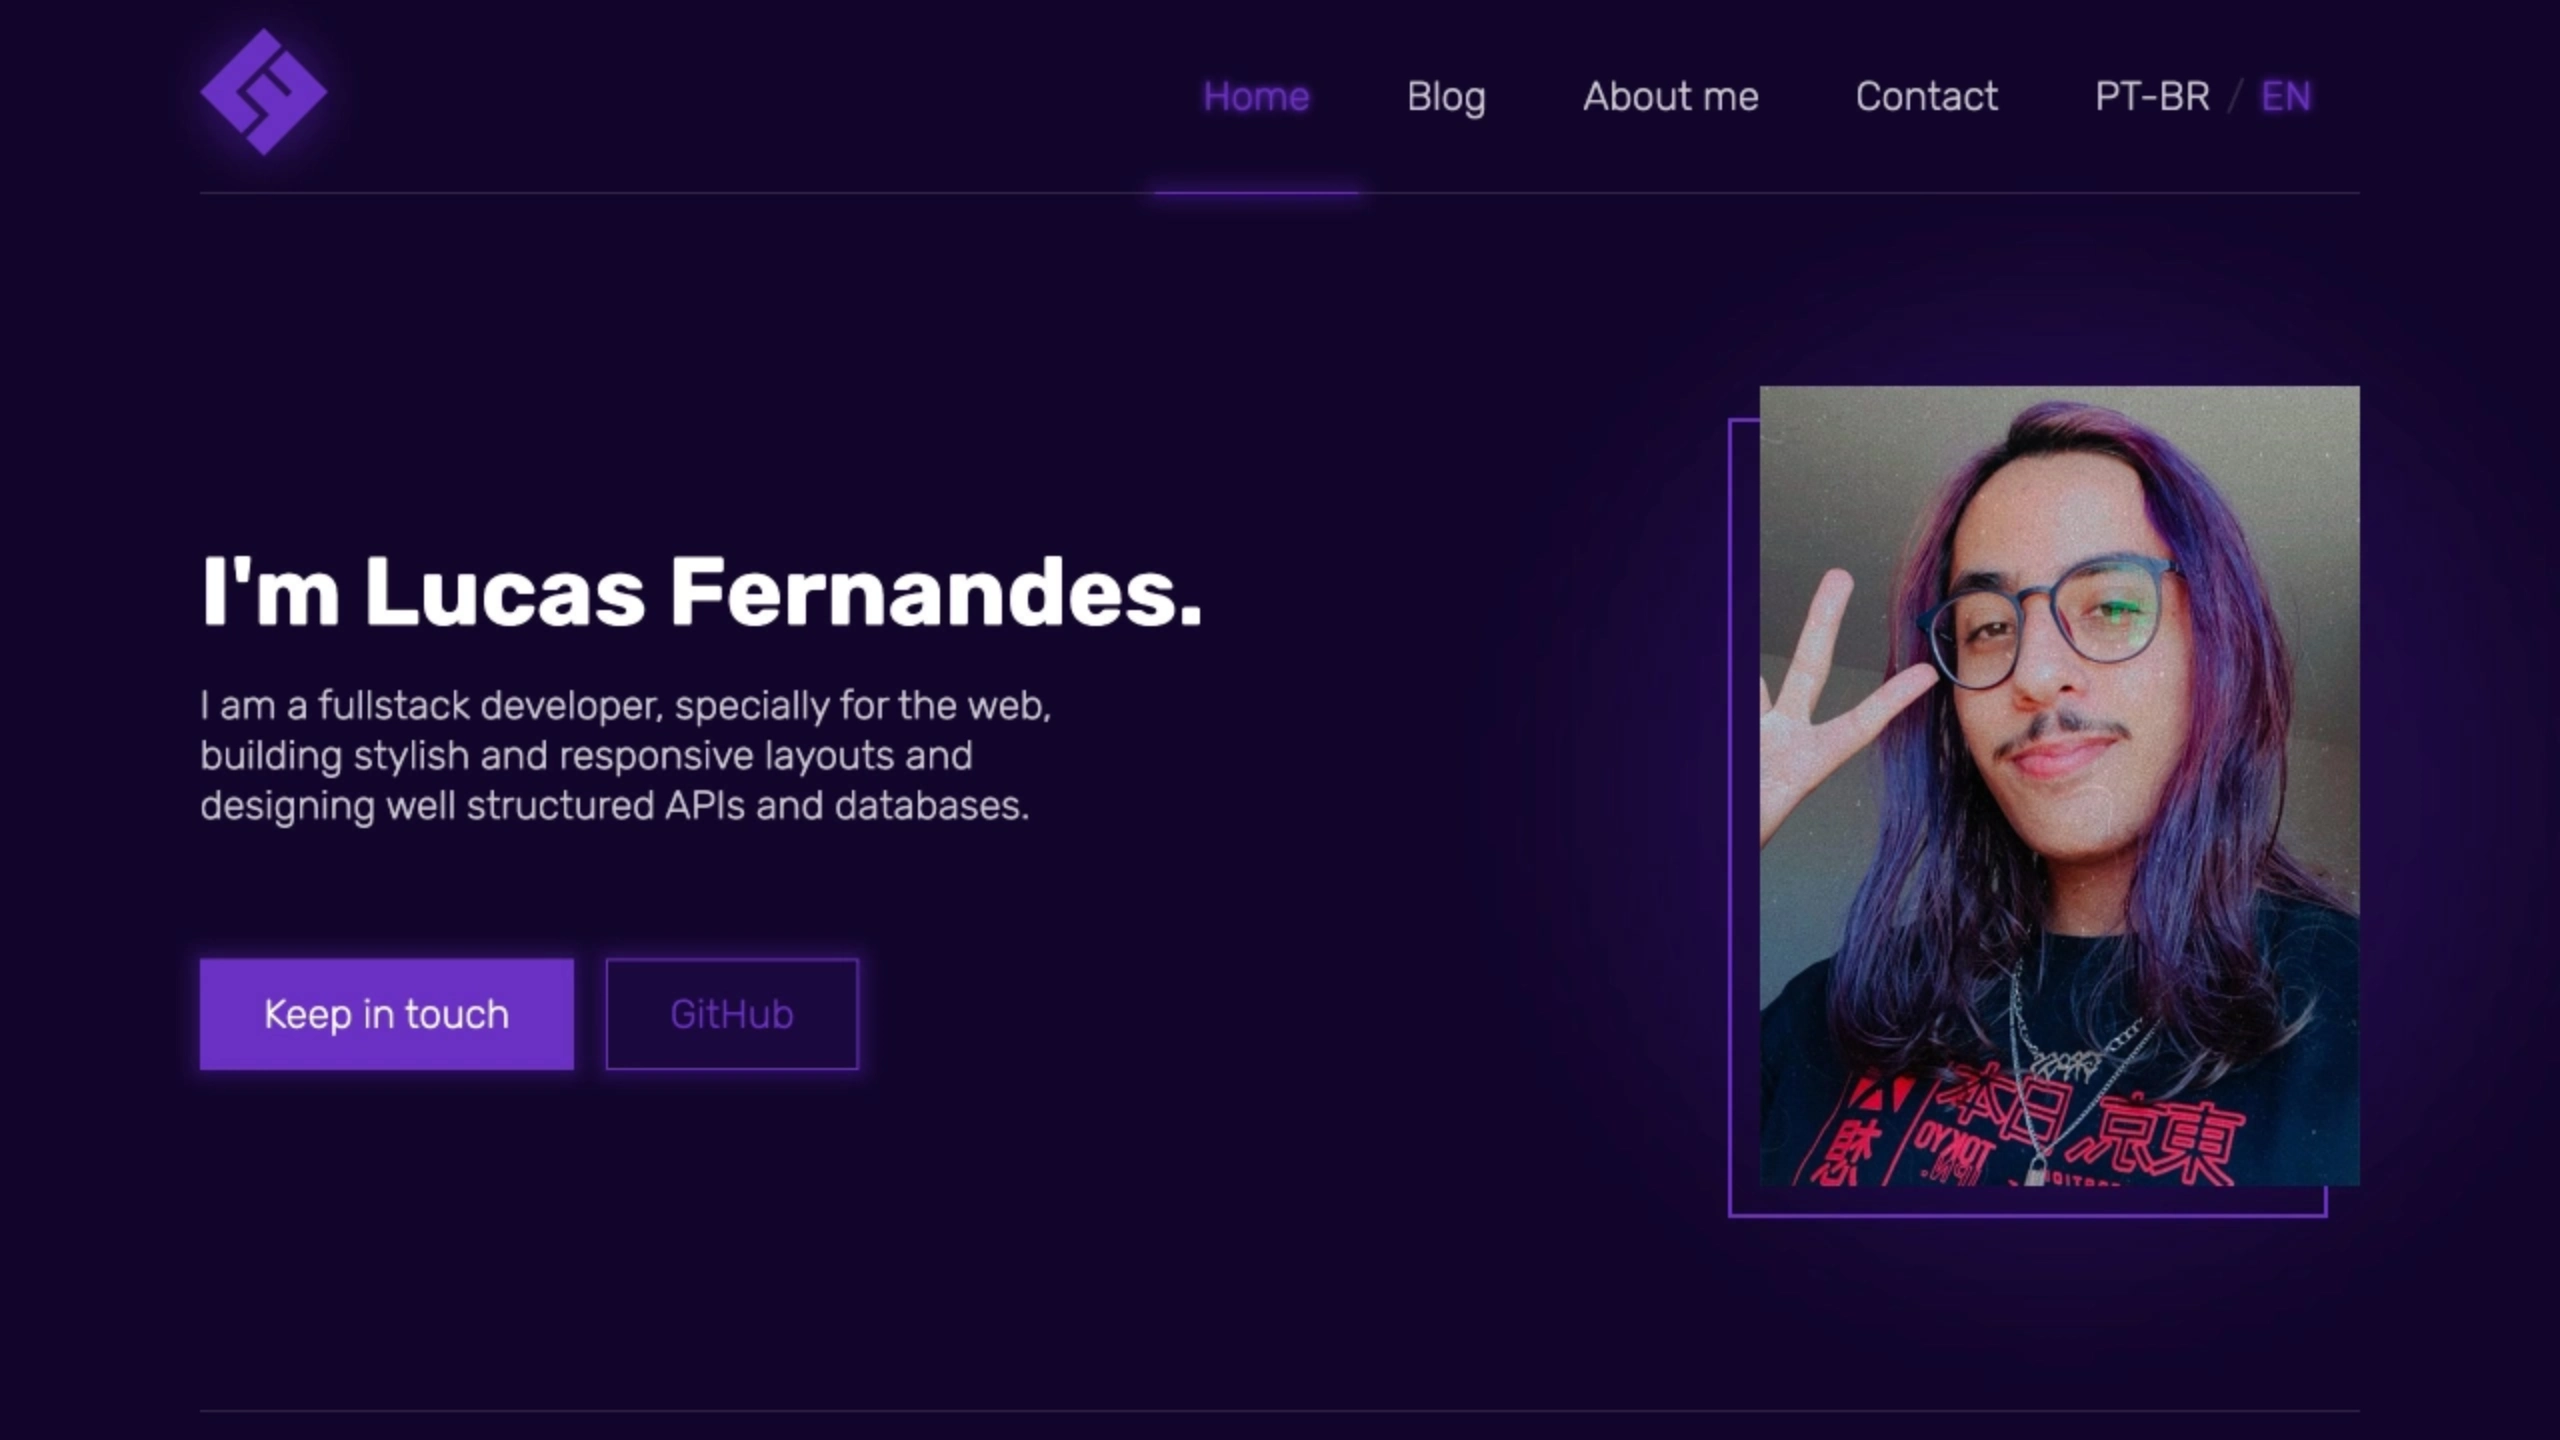
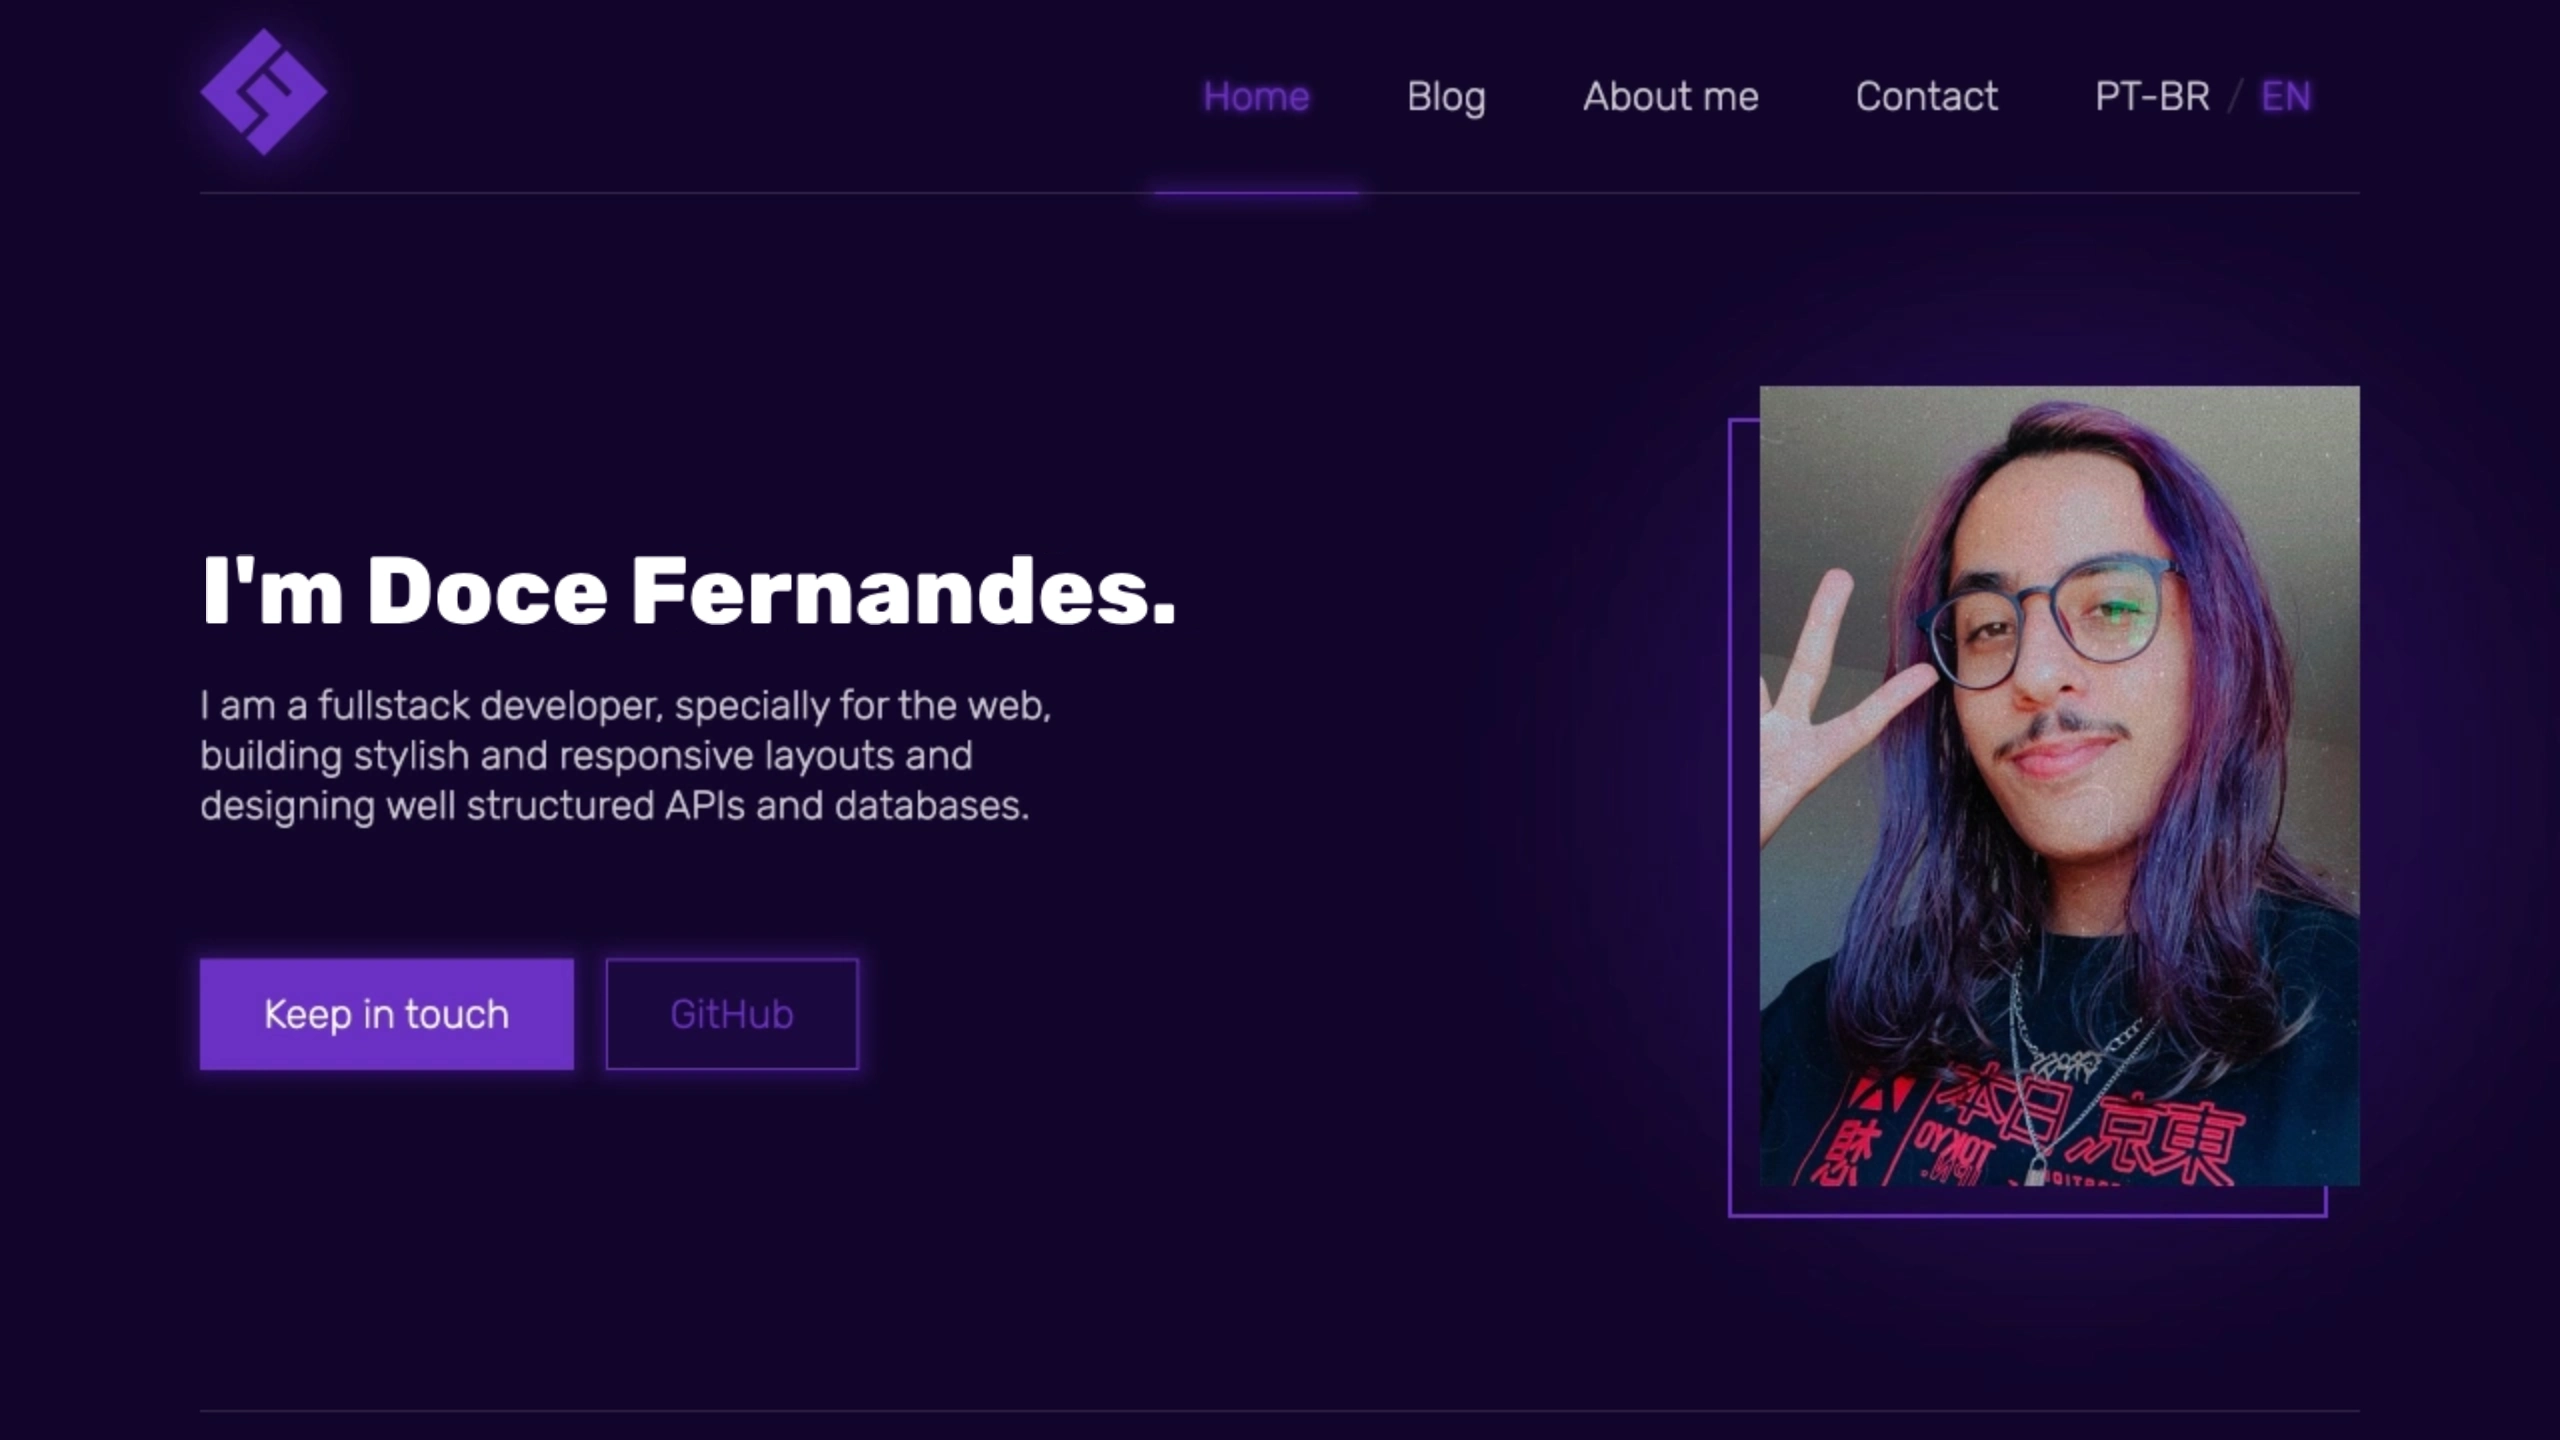
update identity stuff

Changed region(s): [[0.0938, 0.375, 0.4688, 0.4375]]

diff --git a/src/routes/blog/(posts)/who-is-doceazedo/+page.md b/src/routes/blog/(posts)/who-is-doceazedo/+page.md
@@ -4,21 +4,23 @@ date: "2022/07/19"
 icon: "/img/raising-hand-emoji.svg"
 ---
 
-The pseudonym DoceAzedo was created on June 1st, 2020 with the goal of separating my online identity from my personal life. At that time I didn't want to mix my projects with my day-to-day life outside the computer, so I decided to rename and separate all my accounts and names across the internet in an attempt to hide Lucas from whoever knew Doce.
+> 👋 Hey, Doce from 2025 here! I changed even more since I originally wrote this, but I thought it would be good to keep this post online for the ages.
+
+The pseudonym DoceAzedo was created on June 1st, 2020 with the goal of separating my online identity from my personal life. At that time I didn't want to mix my projects with my day-to-day life outside the computer, so I decided to rename and separate all my accounts and names across the internet in an attempt to hide the IRL me from whoever knew Doce.
 
 I created this nickname exactly three days after the release of the album "Chromatica", translating the title of the track "Sour Candy" to "DoceAzedo" (which means "sour sweet" in Portuguese). You'll still find the suffix "911", another track from that same album, on social media where this name by itself wasn't available.
 
 For context, Lady Gaga's "Chromatica" was a huge cultural moment in 2020, especially for LGBTQ+ folks. The album was all about self-acceptance, healing, and finding your authentic self, which honestly feels pretty relevant to this whole identity journey I'm about to unpack.
 
-What happened is that since then my online presence started representing my livestreams and open-source projects more than my old projects of questionable nature, already abandoned at that point. Meanwhile, the name "Lucas Fernandes" became more tied to my professional career.
+What happened is that since then my online presence started representing my livestreams and open-source projects more than my old projects of questionable nature, already abandoned at that point. Meanwhile, my old name became more tied to my professional career.
 
 ## Identity beyond the visuals
 
-Starting from this principle, I began to notice that the name "Doce" started to portray much better who I am as a person than "Lucas". For example, whoever knows me as Doce knows at least that I'm a programmer, I do live coding and, no less important, I'm a non-binary person. Different from those who know me as Lucas, who either only know my resume, or only know that I'm the "computer kid".
+Starting from this principle, I began to notice that the name "Doce" started to portray much better who I am as a person than my old name. For example, whoever knows me as Doce knows at least that I'm a programmer, I do live coding and, no less important, I'm a non-binary person. Different from those who know me by my old name, who either only know my resume, or only know that I'm the "computer kid".
 
 Especially because in a three-year window, nobody is the same person at the end, even more considering that three years ago I was just a teenager.
 
-So gradually I started perceiving and understanding that the depreciation of the name "Lucas" in favor of the name "Doce" was more than a visual identity change of a brand, but rather a change in the way to better represent who I am.
+So gradually I started perceiving and understanding that the depreciation of my old name in favor of the name "Doce" was more than a visual identity change of a brand, but rather a change in the way to better represent who I am.
 
 <p align="center">
   <img src="/img/old-taylor.gif">
@@ -28,7 +30,7 @@ Non-binary identity, for those who might not be familiar, means I don't exclusiv
 
 ## A site that's mine (and only mine)
 
-And following this same logic, my website stops being Lucas's resume to become DoceAzedo's personal space on the world wide web. This feeling of wanting to own a place that is truly mine, independent of platforms governed by big corporations, grows as they become increasingly predatory and try to impose movements with false promises of providing what, ironically, we already had before they arrived and oppressed it: a free and independent internet.
+And following this same logic, my website stops being my resume to become DoceAzedo's personal space on the world wide web. This feeling of wanting to own a place that is truly mine, independent of platforms governed by big corporations, grows as they become increasingly predatory and try to impose movements with false promises of providing what, ironically, we already had before they arrived and oppressed it: a free and independent internet.
 
 This is why movements like [Keep the Web Free, Say No to Web3](https://yesterweb.org/no-to-web3) are gaining so much strength. There was a time on the internet when we had various small independent sites, blogs and forums that were decimated by the power of big platforms that now promise everything they destroyed but with keywords like "NFT" and "blockchain" involved.
 
@@ -44,10 +46,10 @@ I think my personal process of continuing with just one name happened very unpre
 
 I continue to have a good relationship with what we can call my "legal name" or "dead name", but from my point of view the difference between those who only recognize me by it is clear, and at the same time I'm at peace with that.
 
-The term "dead name" refers to the birth name that a transgender or non-binary person no longer uses. It's called "dead" because that name no longer represents who they are. Some people have complicated relationships with their dead names, but like I mentioned, I'm pretty chill about mine. It's more about context, Lucas feels like my professional/legal identity while Doce feels like my authentic self.
+The term "dead name" refers to the birth name that a transgender or non-binary person no longer uses. It's called "dead" because that name no longer represents who they are. Some people have complicated relationships with their dead names, but like I mentioned, I'm pretty chill about mine, but "Doce" feels like my authentic self.
 
-And if you knew me as Lucas and took the trouble to read this whole post, thank you so much and **nice to meet you, I'm Doce**!
+And if you knew me as my now deprecated name and took the trouble to read this whole post, thank you so much and **nice to meet you, I'm Doce**!
 
-This whole journey from Lucas to Doce has been about finding a name that actually fits who I am, not just what's on my birth certificate. It's been about creating spaces where I can be authentically myself, whether that's through live coding streams, open-source projects, or just existing as a non-binary person in tech. The internet gave me the freedom to explore this identity, and now I'm trying to protect that same freedom for others by maintaining my own independent corner of the web.
+This whole journey from my old self to Doce has been about finding a name that actually fits who I am, not just what's on my birth certificate. It's been about creating spaces where I can be authentically myself, whether that's through live coding streams, open-source projects, or just existing as a non-binary person in tech. The internet gave me the freedom to explore this identity, and now I'm trying to protect that same freedom for others by maintaining my own independent corner of the web.
 
 If you're struggling with your own identity, whether that's about gender, career, or just figuring out who you want to be online, know that it's okay to evolve. Names, identities, and how we present ourselves can change as we grow and understand ourselves better. The most important thing is that you feel authentic and comfortable with who you are.
